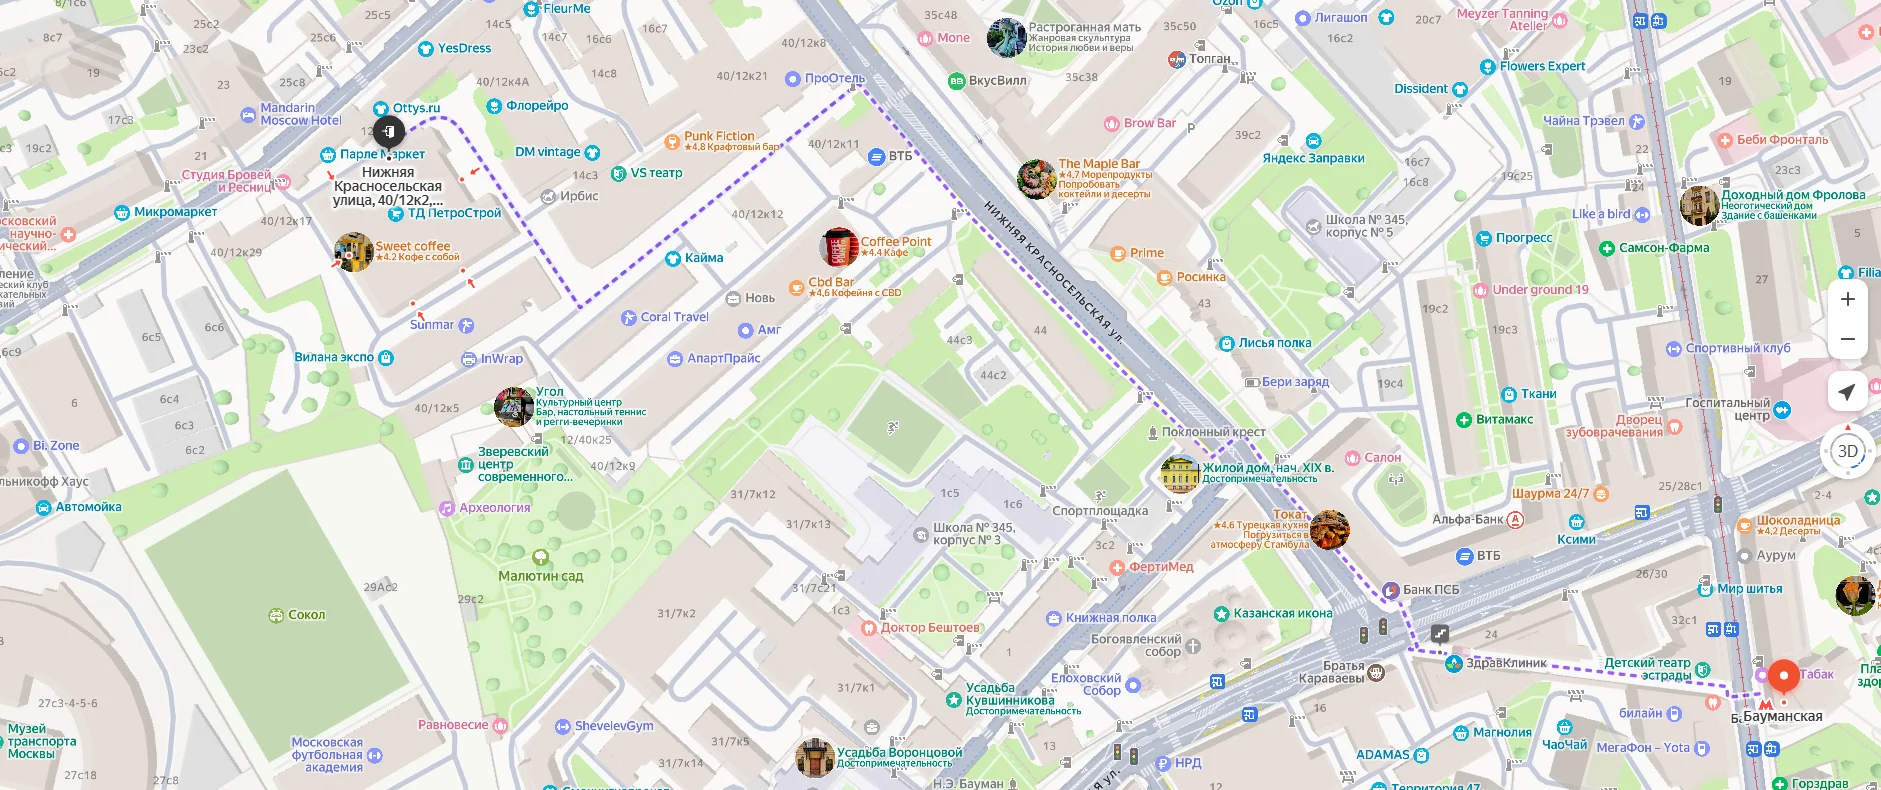
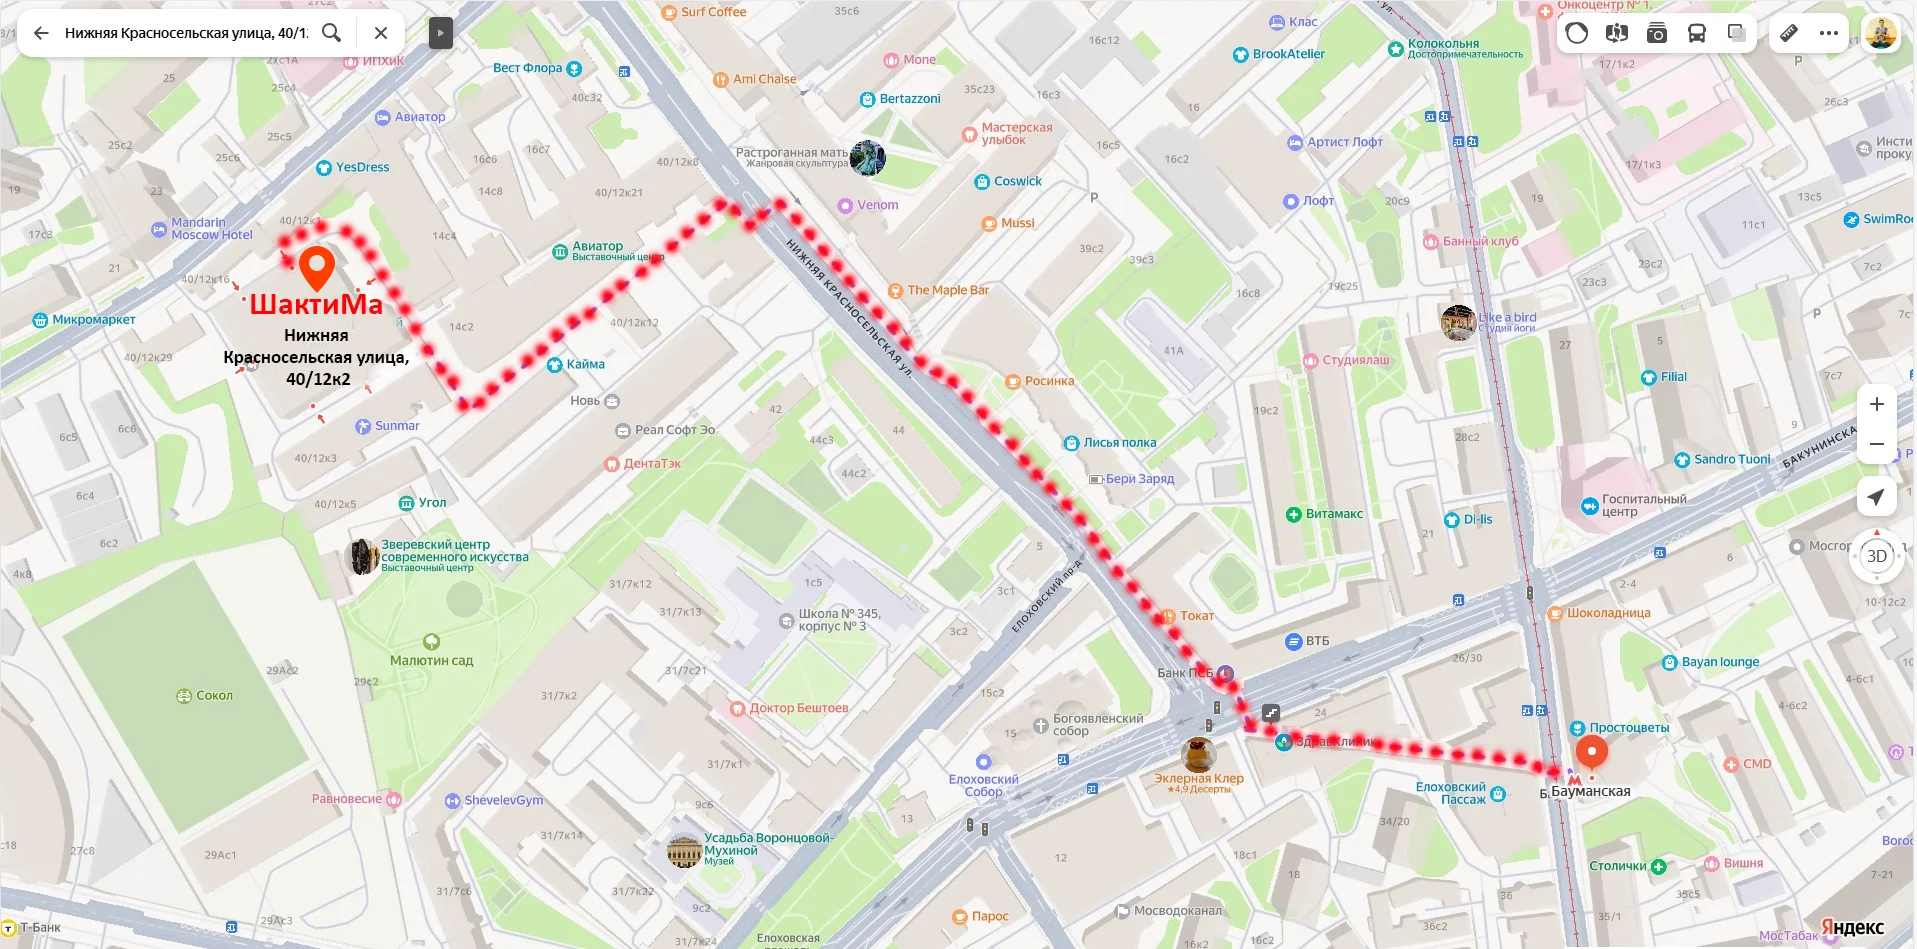
commit 3.89

diff --git a/components/MenuNavbar.tsx b/components/MenuNavbar.tsx
@@ -5,10 +5,10 @@ const MenuNavbar = () => {
   return (
     <div className='flex flex-col lg:flex-row items-center'>
 
-      <Link href="/" className='btn btn-ghost text-lg font-normal hover:bg-red-100 dark:hover:bg-gray-700 dark:text-white transition duration-300 ease-in'>О центре</Link>
+      <Link href="/" className='btn btn-ghost text-lg font-normal hover:bg-red-600 hover:text-white dark:hover:bg-gray-700 dark:text-white transition duration-300 ease-in'>О центре</Link>
 
       <Menu>
-        <MenuButton className="btn btn-ghost text-lg font-normal dark:text-white hover:bg-red-100 dark:hover:bg-gray-700 transition duration-300 ease-in">Мероприятия</MenuButton>
+        <MenuButton className="btn btn-ghost text-lg font-normal dark:text-white hover:bg-red-600 hover:text-white dark:hover:bg-gray-700 transition duration-300 ease-in">Мероприятия</MenuButton>
         <MenuItems transition anchor="bottom" className="w-[var(--button-width)] origin-top transition duration-300 ease-out data-[closed]:scale-95 data-[closed]:opacity-0 flex flex-col gap-1">
           <MenuItem>
             <Link
@@ -36,7 +36,7 @@ const MenuNavbar = () => {
       </Menu >
 
       <Menu>
-        <MenuButton className="btn btn-ghost text-lg font-normal dark:text-white hover:bg-red-100 dark:hover:bg-gray-700">Практики</MenuButton>
+        <MenuButton className="btn btn-ghost text-lg font-normal dark:text-white hover:bg-red-600 hover:text-white dark:hover:bg-gray-700">Практики</MenuButton>
         <MenuItems transition anchor="bottom" className="w-[var(--button-width)] origin-top transition duration-300 ease-in data-[closed]:scale-95 data-[closed]:opacity-0 flex flex-col gap-1">
           <MenuItem>
             <Link
@@ -48,11 +48,11 @@ const MenuNavbar = () => {
         </MenuItems>
       </Menu>
 
-      <Link href="/blog" className='btn btn-ghost text-left text-lg font-normal dark:text-white hover:bg-red-100 dark:hover:bg-gray-700 transition duration-300 ease-in'>Блог</Link>
+      <Link href="/blog" className='btn btn-ghost text-left text-lg font-normal dark:text-white hover:bg-red-600 hover:text-white dark:hover:bg-gray-700 transition duration-300 ease-in'>Блог</Link>
 
-      <Link href="/contacts" className='btn btn-ghost text-left text-lg font-normal dark:text-white hover:bg-red-100 dark:hover:bg-gray-700 transition duration-300 ease-in'>Контакты</Link>
+      <Link href="/contacts" className='btn btn-ghost text-left text-lg font-normal dark:text-white hover:bg-red-600 hover:text-white dark:hover:bg-gray-700 transition duration-300 ease-in'>Контакты</Link>
 
-      <Link href="/donate" className='btn btn-ghost text-left text-lg font-normal dark:text-white hover:bg-red-100 dark:hover:bg-gray-700 transition duration-300 ease-in'>Поддержать нас</Link>
+      <Link href="/donate" className='btn btn-ghost text-left text-lg font-normal dark:text-white hover:bg-red-600 hover:text-white dark:hover:bg-gray-700 transition duration-300 ease-in'>Поддержать нас</Link>
     </div>
   )
 }

diff --git a/app/contacts/page.tsx b/app/contacts/page.tsx
@@ -7,8 +7,13 @@ import { FaTelegram } from "react-icons/fa";
 import { FaShoppingCart } from "react-icons/fa";
 import { FaOm } from "react-icons/fa";
 import { Metadata } from 'next'
-import map from "@/public/map.jpg"
+import map from "@/public/map.webp"
+import map2 from "@/public/map2.webp"
+import map3 from "@/public/map3.webp"
+import map4 from "@/public/map4.webp"
+import map5 from "@/public/map5.webp"
 import { FaMapMarkerAlt } from "react-icons/fa";
+import MyAccordion from "@/components/MyAccordion";
 
 
 export const metadata: Metadata = {
@@ -63,7 +68,21 @@ const page = () => {
             <p className="text-xs md:text-base lg:text-lg">Нижняя Красносельская улица, 40/12к2, подъезд 3</p>
             <FaMapMarkerAlt />
           </a>
-          <Image src={map} alt="" className="mt-5 rounded-xl xl:rounded-2xl 2xl:rounded-3xl"></Image>
+          <MyAccordion title="Как добраться" className="xl:mx-20 2xl:mx-40 flex flex-col  mt-2 p-2 text-sm bg-gray-100 dark:bg-slate-700 text-slate-700 dark:text-white rounded-md">
+            <div className="flex flex-col gap-2">
+              <Image src={map} alt="Студия йоги ШактиМа. Как до нас дойти пешком от метро." className="mt-2 rounded-lg lg:rounded-xl " />
+              <p><b>От метро Бауманская.</b> Выходите из метро направо через дорогу и проходите сквозь торговые лавки на Нижнюю Красносельскую улицу. </p>
+              <p><b>От метро Красносельская.</b> Выходите из метро и идете вдоль дороги по Нижней Красносельской улице. </p>
+              <Image src={map2} alt="Арка" className="rounded-lg lg:rounded-xl" />
+              <p>Вход через ворота с улицы Нижняя Красносельская</p>
+              <Image src={map3} alt="Арка" className="rounded-lg lg:rounded-xl" />
+              <p>Идете прямо</p>
+              <Image src={map4} alt="Арка" className="rounded-lg lg:rounded-xl" />
+              <p>Доходите до конца здания и поворичиваете направо. Затем, идете до конца и налево.</p>
+              <Image src={map5} alt="Арка" className="rounded-lg lg:rounded-xl" />
+              <p>Намасте! И добро пожаловать.</p>
+            </div>
+          </MyAccordion>
         </div>
 
         <h5 className="w-full text-center text-lg md:text-xl lg:text-2xl font-semibold mt-10 lg:mt-20">Наши ресурсы</h5>
